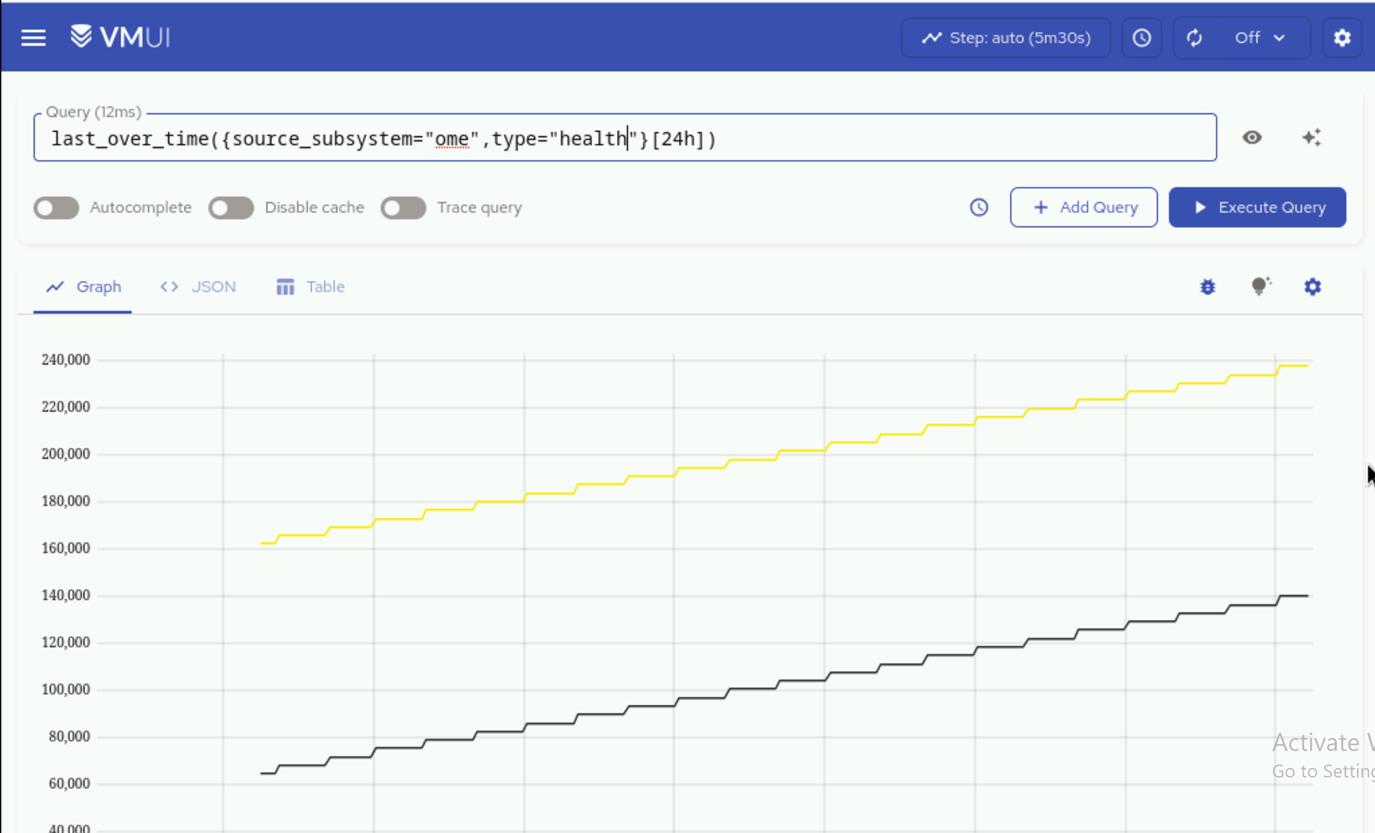
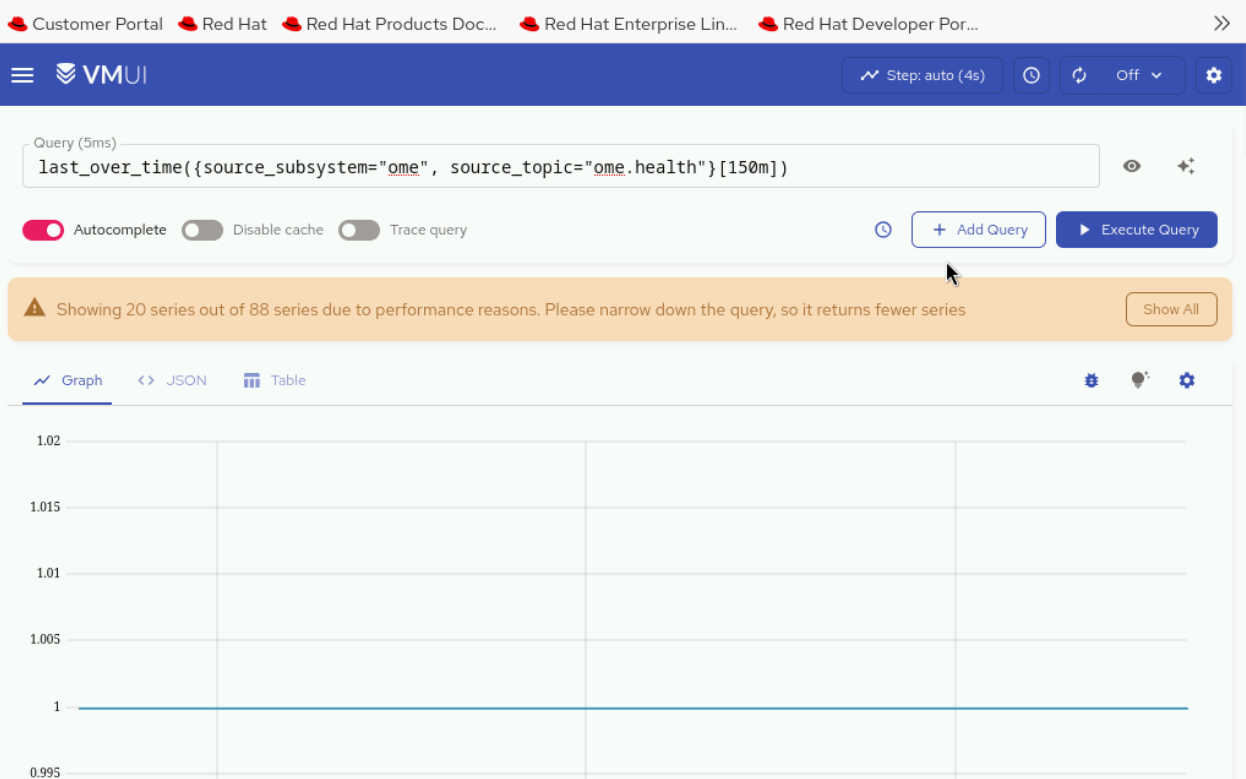
Updated OME telemetry

diff --git a/docs/HowTo/Telemetry/telemetry_from_ome.md b/docs/HowTo/Telemetry/telemetry_from_ome.md
@@ -267,10 +267,16 @@ To verify that OME telemetry data is being successfully routed from Kafka to Vic
 3. Run the following query to retrieve health metrics from OME:
 
     ```
-    last_over_time({source_subsystem="ome", type="health"}[24h])
+    last_over_time({source_subsystem="ome", source_topic="ome.health"}[150m])
     ```
 
     ![OME Metrics in VMUI](../../assets/images/external_kafka_ome_metrics_health.png)
+
+     ```
+    last_over_time({source_subsystem="ome", source_topic="ome.telemetry"}[15m])
+    ```
+
+    ![OME Metrics in VMUI](../../assets/images/external_kafka_ome_metrics_telemetry.png)
 
 !!! note
 
